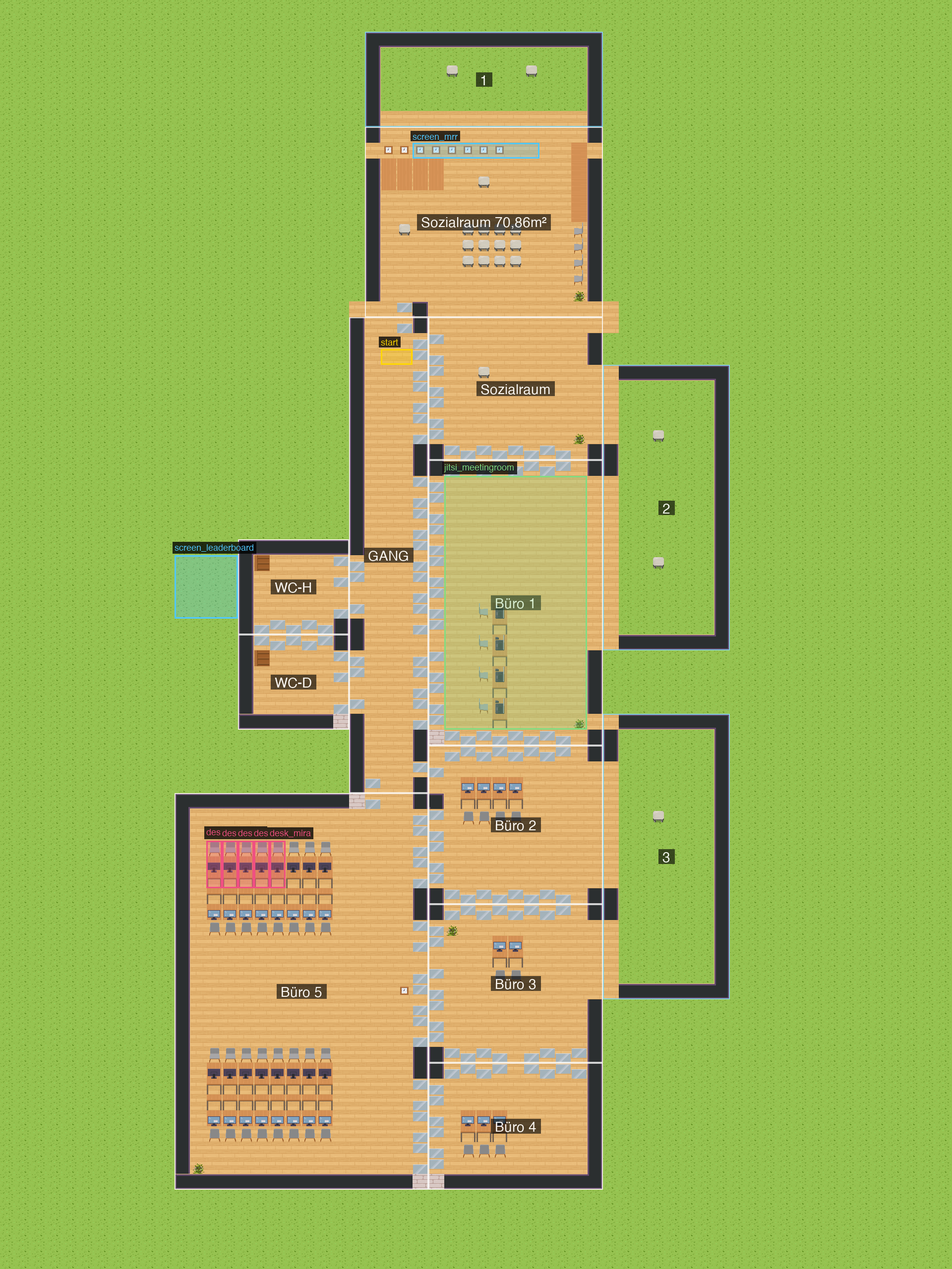
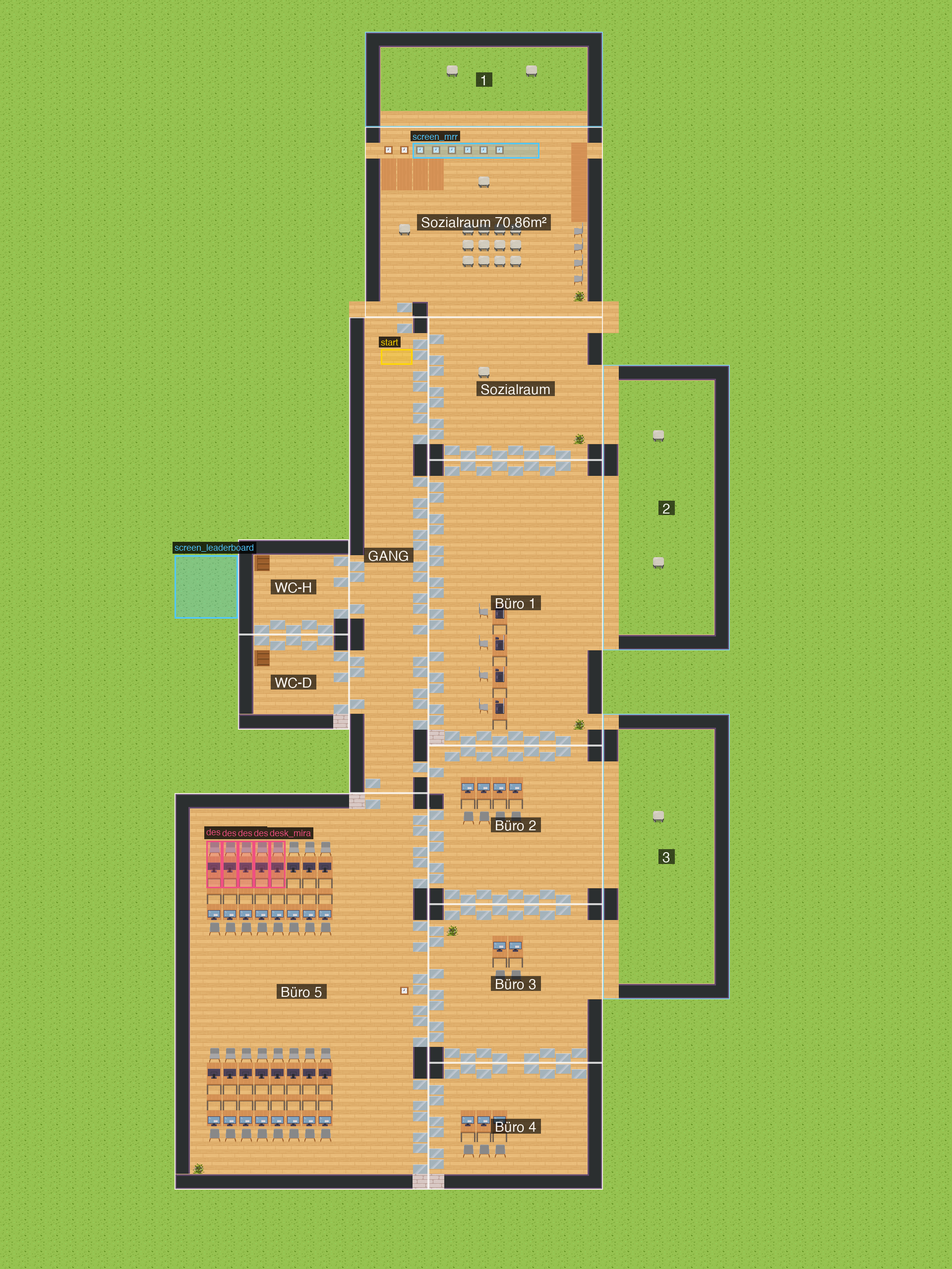
Make WA thumbnail match the actual render; drop Jitsi zone
- build_map.py: mapImage now points at chatarmin-office.png and the
  jitsi_meetingroom area zone over buro_1 is removed (we don't want
  Jitsi auto-popping in offices).
- render_map.py: write both an overlay-free chatarmin-office.png
  (used by WA as the room thumbnail via mapImage) and the existing
  chatarmin-office.preview.png (debug overlays for us).
- Switch upload mode to GH_PAGES + add a local wa-bridge loader stub
  so npm run buildmap can resolve the script entry; the stub injects
  the live https://live-armin.vercel.app/scripting/wa-bridge.js at
  runtime so map updates and bridge logic stay decoupled.

Changed region(s): [[0.4688, 0.3438, 0.625, 0.5938]]

diff --git a/scripts/render_map.py b/scripts/render_map.py
@@ -14,6 +14,8 @@ floorplan.json, so it's obvious at a glance what's what.
 import json
 import sys
 from pathlib import Path
+from typing import Optional
+
 from PIL import Image, ImageDraw, ImageFont
 
 ROOT = Path(__file__).resolve().parent.parent
@@ -199,7 +201,17 @@ def draw_object_zones(canvas, objects, TW, TH):
     canvas.alpha_composite(overlay)
 
 
-def render(map_path: Path, out_path: Path):
+def render(map_path: Path, out_path: Path, clean_path: Optional[Path] = None):
+    """Render the .tmj.
+
+    Always produces ``out_path`` with the debug overlays (room labels, object
+    zones) drawn on top — that's the file we use ourselves for sanity checks.
+
+    If ``clean_path`` is given, an overlay-free version is also written to that
+    path. The clean image is what WorkAdventure uses as the room thumbnail
+    (referenced from the .tmj's ``mapImage`` property), so it must be free of
+    any debug drawing.
+    """
     m = json.loads(map_path.read_text())
     W, H = m["width"], m["height"]
     TW, TH = m["tilewidth"], m["tileheight"]
@@ -217,8 +229,14 @@ def render(map_path: Path, out_path: Path):
 
     walk(m["layers"])
 
-    # overlays — read floorplan.json (best-effort) for room labels, then stamp
-    # every object zone from the .tmj itself
+    # Snapshot the clean tile composite BEFORE we paint any overlays — that's
+    # the version WA will show as the room thumbnail.
+    if clean_path is not None:
+        canvas.convert("RGB").save(clean_path, "PNG", optimize=True)
+        print(f"rendered {clean_path} ({W*TW}x{H*TH}, {clean_path.stat().st_size:,} bytes)")
+
+    # Now paint the debug overlays on top: room outlines/labels (from
+    # floorplan.json if available) and every object zone in the .tmj.
     plan_path = ROOT / "floorplan.json"
     plan = json.loads(plan_path.read_text()) if plan_path.exists() else None
     draw_room_labels(canvas, plan, TW, TH)
@@ -231,4 +249,10 @@ def render(map_path: Path, out_path: Path):
 if __name__ == "__main__":
     src = Path(sys.argv[1]) if len(sys.argv) > 1 else ROOT / "chatarmin-office.tmj"
     dst = Path(sys.argv[2]) if len(sys.argv) > 2 else ROOT / "chatarmin-office.preview.png"
-    render(src, dst)
+    # Conventional companion path: chatarmin-office.preview.png ->
+    # chatarmin-office.png. Caller can opt out by passing a 3rd arg of "-".
+    if len(sys.argv) > 3:
+        clean = None if sys.argv[3] == "-" else Path(sys.argv[3])
+    else:
+        clean = ROOT / "chatarmin-office.png"
+    render(src, dst, clean)

diff --git a/scripts/build_map.py b/scripts/build_map.py
@@ -685,7 +685,6 @@ def build_objects(plan, seat_registry, spawn):
       - desk_<localPart> over the first 5 seats of buro_5
       - start zone
       - screen_mrr / screen_leaderboard for live data displays
-      - jitsi room over a sensible meeting area (sozialraum if present)
     """
     objects = []
     next_id = 1
@@ -727,14 +726,6 @@ def build_objects(plan, seat_registry, spawn):
         objects.append(rect("screen_leaderboard",
                             r["x"] - 4, r["y"] + 1, 4, 4))
 
-    # jitsi over büro_1 (Gemini's first office)
-    if "buro_1" in rooms_by_id:
-        r = rooms_by_id["buro_1"]["rect"]
-        objects.append(rect("jitsi_meetingroom",
-                            r["x"] + 1, r["y"] + 1, r["w"] - 2, r["h"] - 2,
-                            klass="area",
-                            properties=[{"name": "jitsiRoom", "type": "string", "value": "chatarmin-buro1"}]))
-
     return objects
 
 
@@ -758,7 +749,7 @@ def compose(plan, s, objects):
         "properties": [
             {"name": "mapName",        "type": "string", "value": "Chatarmin Office"},
             {"name": "mapDescription", "type": "string", "value": "ChatArmin Dachgeschoss — virtual replica of the new office."},
-            {"name": "mapImage",       "type": "string", "value": "office.png"},
+            {"name": "mapImage",       "type": "string", "value": "chatarmin-office.png"},
             {"name": "script",         "type": "string", "value": "src/wa-bridge.ts"},
             {"name": "mapCopyright",   "type": "string", "value": "© ChatArmin GmbH. Tiles: WorkAdventure (CC-BY-SA 3.0)."},
         ],
